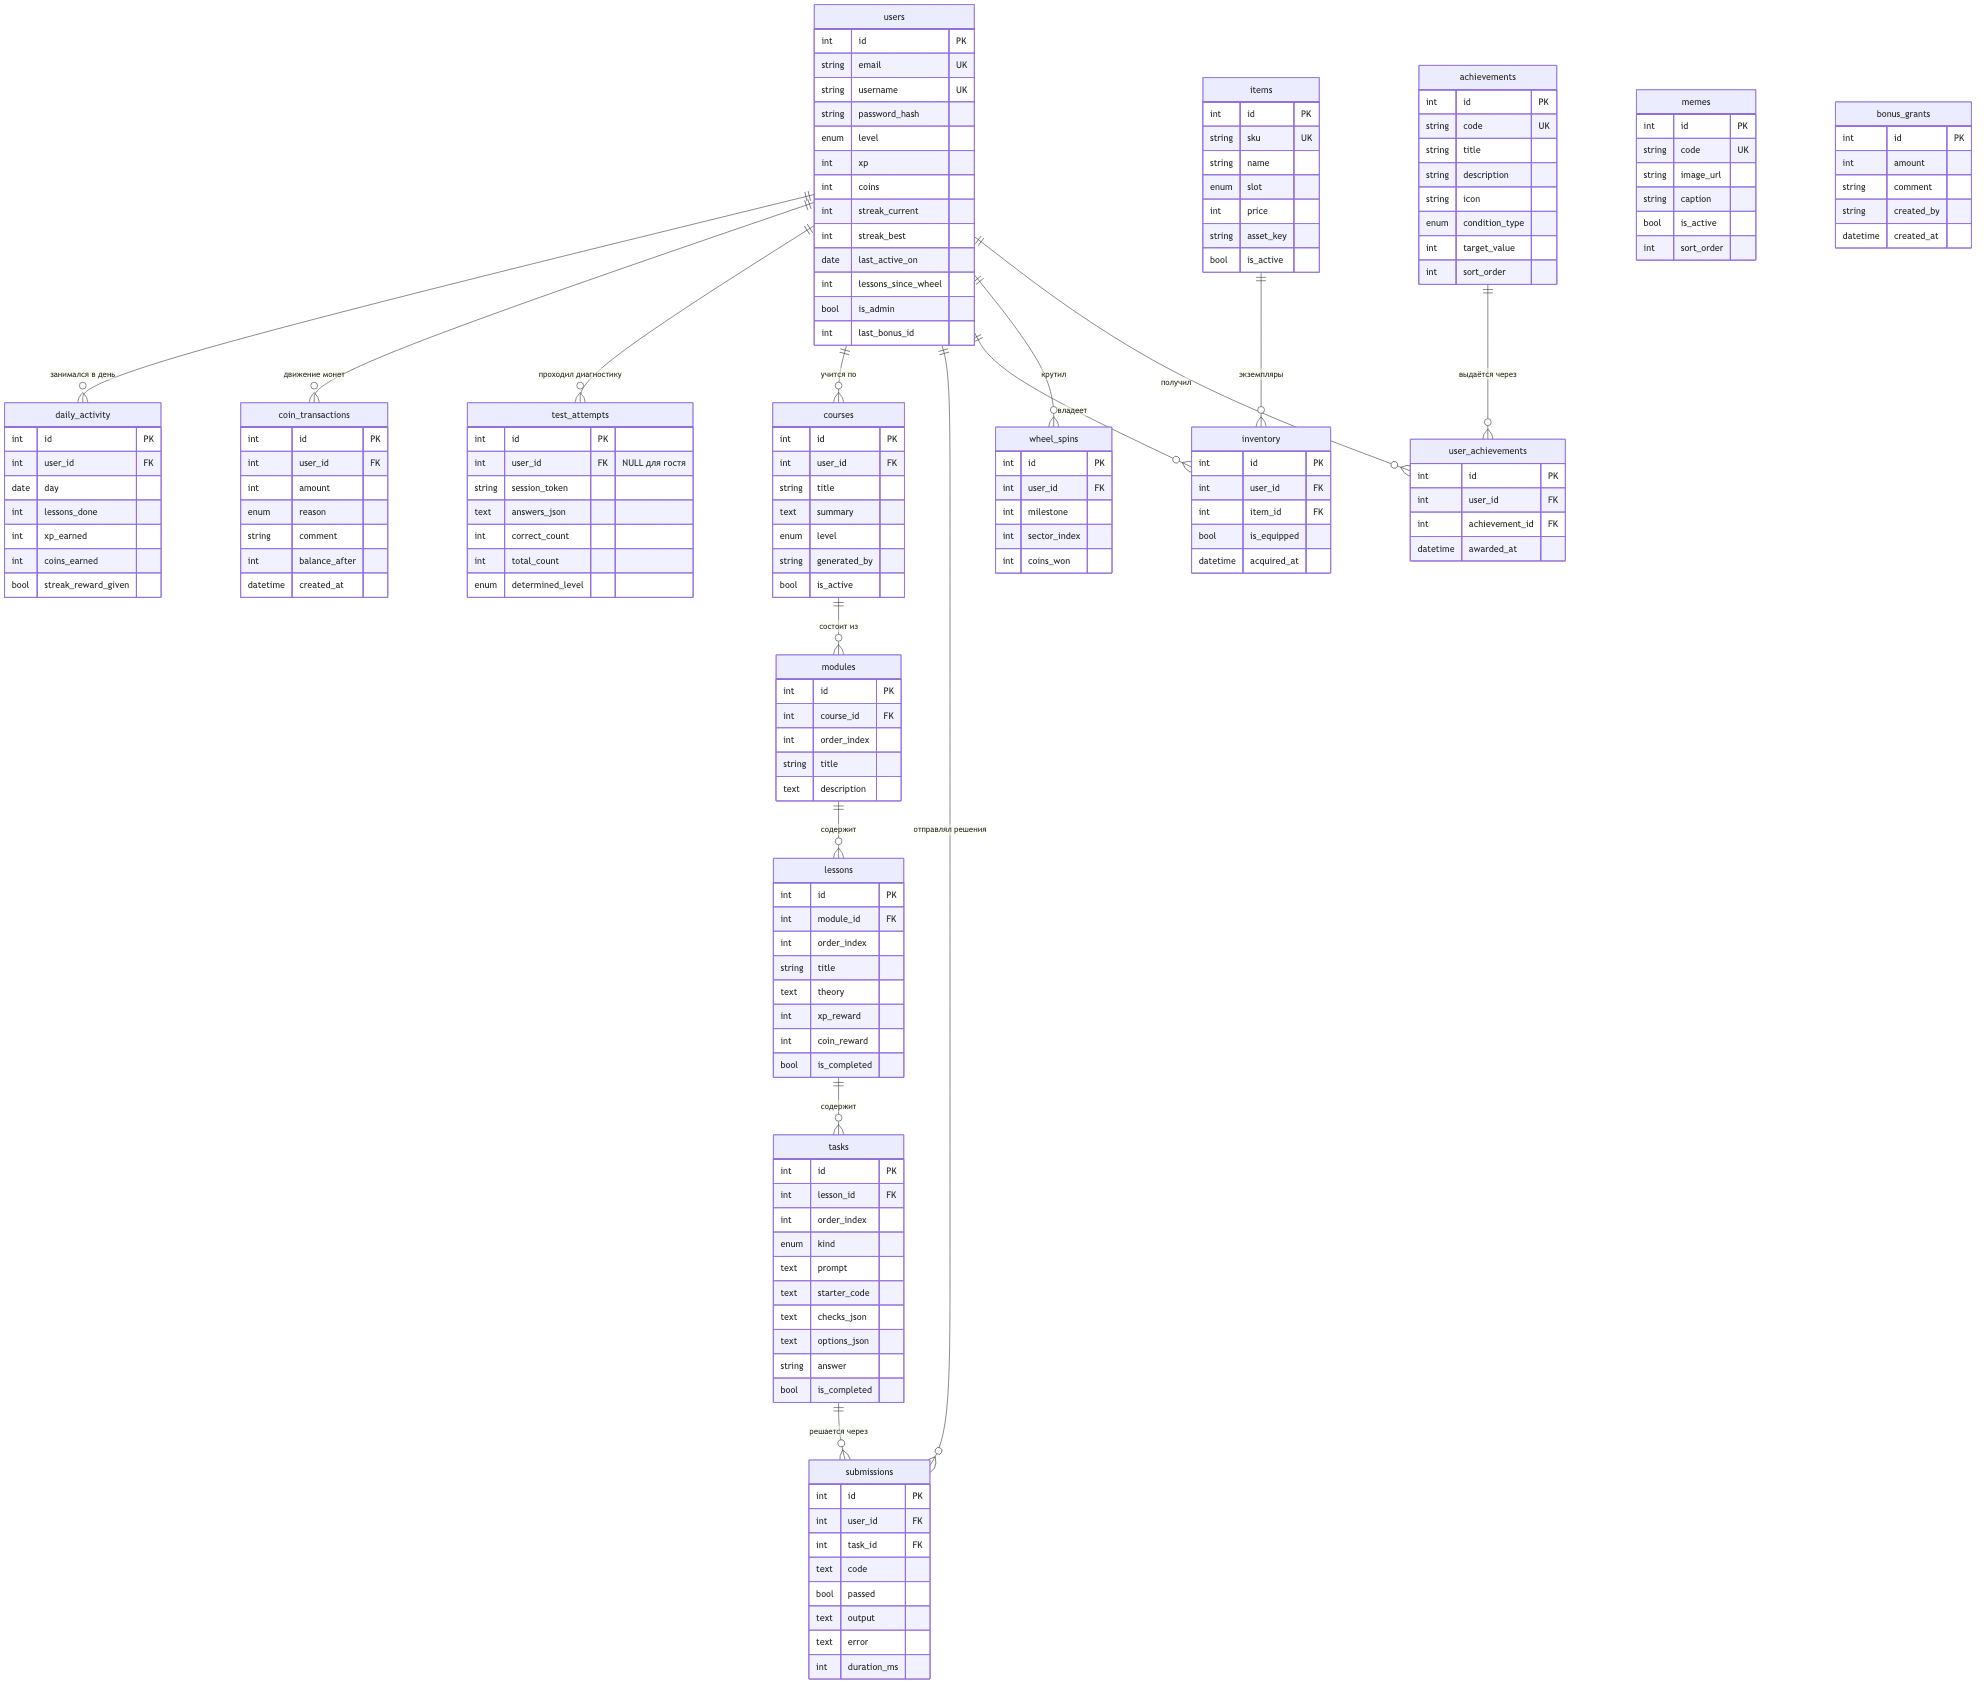
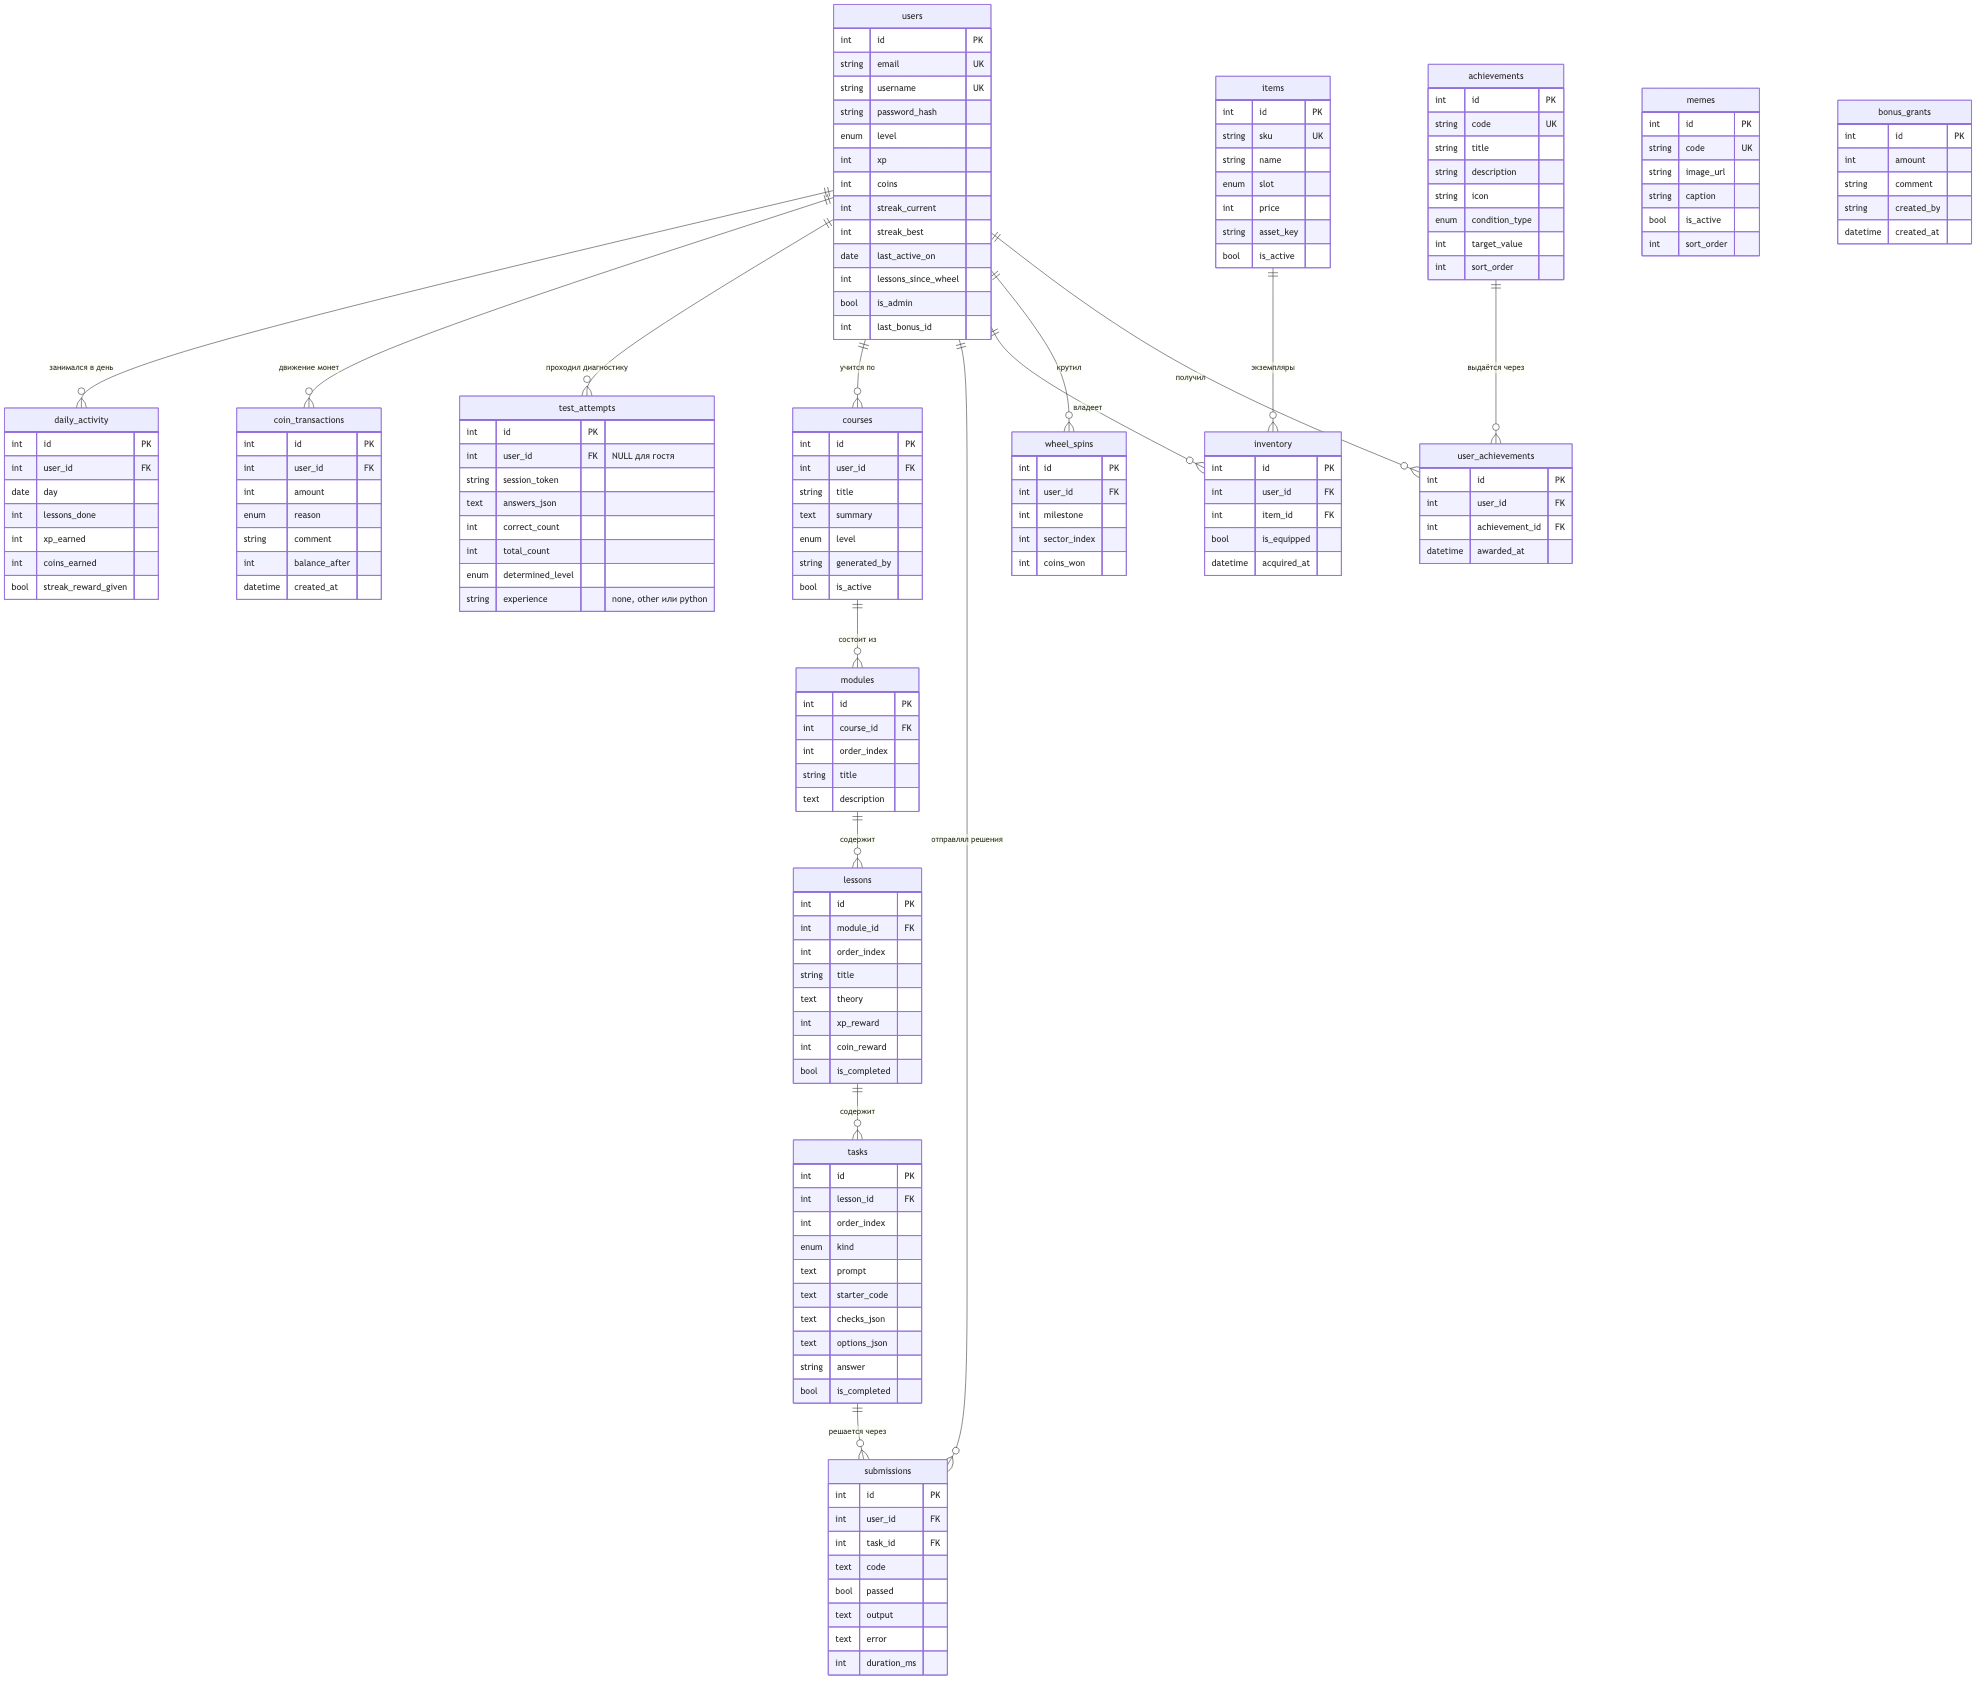
feat(db): поле experience в попытке теста

diff --git a/app/models/learning.py b/app/models/learning.py
@@ -59,6 +59,10 @@ class TestAttempt(Base):
     determined_level: Mapped[Уровень | None] = mapped_column(
         Enum(Уровень, values_callable=lambda e: [x.value for x in e]), nullable=True
     )
+    # Опыт до начала курса — ответ на вопрос перед тестом:
+    # "none" — никогда не программировал, "other" — писал на другом языке,
+    # "python" — уже пишет на Python. Пусто у попыток, сделанных до появления вопроса.
+    experience: Mapped[str] = mapped_column(String(16), default="", nullable=False)
     started_at: Mapped[datetime] = mapped_column(DateTime(timezone=True), default=сейчас, nullable=False)
     finished_at: Mapped[datetime | None] = mapped_column(DateTime(timezone=True), nullable=True)
 

diff --git a/app/services/migrate.py b/app/services/migrate.py
@@ -16,6 +16,7 @@ from sqlalchemy.engine import Engine
 НУЖНЫЕ = [
     ("users", "is_admin", "BOOLEAN NOT NULL DEFAULT 0"),
     ("users", "last_bonus_id", "INTEGER NOT NULL DEFAULT 0"),
+    ("test_attempts", "experience", "VARCHAR(16) NOT NULL DEFAULT ''"),
 ]
 
 

diff --git a/docs/04-модель-данных.md b/docs/04-модель-данных.md
@@ -88,6 +88,7 @@ erDiagram
         int correct_count
         int total_count
         enum determined_level
+        string experience "none, other или python"
     }
     courses {
         int id PK
